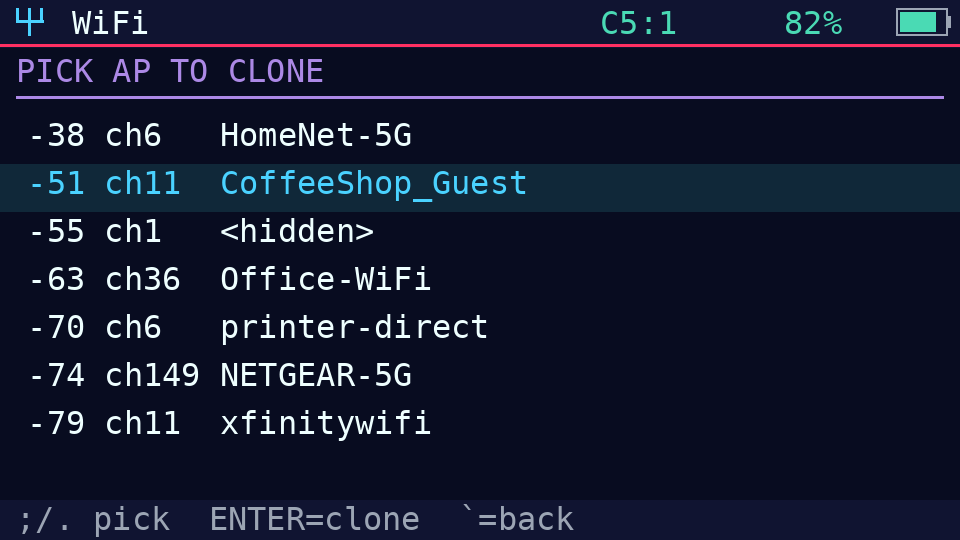
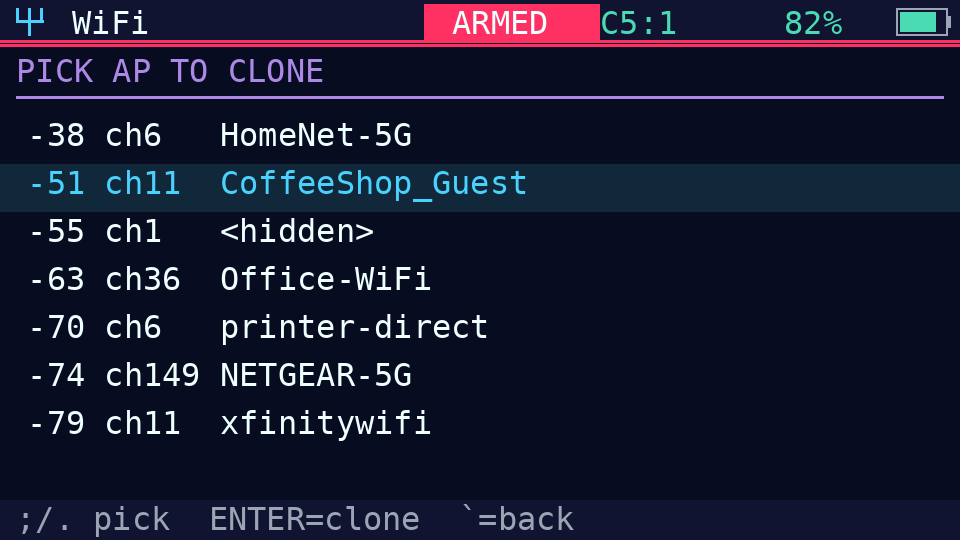
docs(c5-captures): sync rendered captures with the new ARMED badge
Follow-up to the ARMED-indicator change (PR #32): tools/render_c5_screens.py
drew the old separator-only armed cue, so the committed C5 Tier-2 captures
were stale. Update status_bar() to render the filled red "ARMED" badge
(white on red) + 2px red baseline, matching src/ui.cpp, and regenerate
c5-beacon-spam / c5-ciw / c5-ap-clone PNGs. README caption updated.

Claude-Session: https://claude.ai/code/session_01KB21nw3rYguogBez4yGuii

Changed region(s): [[0.0, 0.0, 1.0, 0.0889]]

diff --git a/tools/render_c5_screens.py b/tools/render_c5_screens.py
@@ -51,6 +51,10 @@ def status_bar(sc, radio="WiFi", c5=1, bat=82, armed=True):
     # signal glyph (src/ui.cpp)
     sc.vline(7, 2, 7, ACCENT); sc.vline(4, 2, 3, ACCENT); sc.vline(10, 2, 3, ACCENT); sc.hline(4, 5, 7, ACCENT)
     sc.text(18, 2, radio, FG)
+    # TX-arm "ARMED" badge (white on red) in the extra slot when armed (src/ui.cpp)
+    if armed:
+        sc.rect(106, 1, 44, 9, BAD)
+        sc.text(113, 2, "ARMED", FG)
     if c5 > 0: sc.text(150, 2, f"C5:{c5}", GOOD)
     # battery
     bx = W - 16
@@ -59,8 +63,11 @@ def status_bar(sc, radio="WiFi", c5=1, bat=82, armed=True):
     bcol = GOOD if bat > 50 else (WARN if bat > 20 else BAD)
     if fw > 0: sc.rect(bx+1, 3, fw, 5, bcol)
     sc.text(196, 2, f"{bat}%", bcol)
-    # TX-arm separator: red when armed
-    sc.hline(0, STATUS_H-1, W, BAD if armed else RULE)
+    # TX-arm baseline: 2px red when armed, else the theme rule (src/ui.cpp)
+    if armed:
+        sc.hline(0, STATUS_H-2, W, BAD); sc.hline(0, STATUS_H-1, W, BAD)
+    else:
+        sc.hline(0, STATUS_H-1, W, RULE)
 
 def footer(sc, hint):
     sc.rect(0, H-FOOTER_H, W, FOOTER_H, STATUS_BG)

diff --git a/README.md b/README.md
@@ -201,7 +201,7 @@ Separate board, reached over ESP-NOW, for the radios the S3 can't do: 5 GHz Wi-F
 
 #### C5 Tier 2 screens
 
-> **Rendered from code, not device captures.** These are generated by [`tools/render_c5_screens.py`](tools/render_c5_screens.py), which reproduces the exact draw calls in `src/features/c5_tier2.cpp` at the real 240×135 resolution using the Deepwater theme's RGB565 palette (`src/theme.cpp`). The red status-bar separator is the TX-arm "armed" cue. The canonical on-device UI is owned by the UI Engineer; these are documentation aids. Pixel-exact device captures will follow after the hardware pass.
+> **Rendered from code, not device captures.** These are generated by [`tools/render_c5_screens.py`](tools/render_c5_screens.py), which reproduces the exact draw calls in `src/features/c5_tier2.cpp` at the real 240×135 resolution using the Deepwater theme's RGB565 palette (`src/theme.cpp`). The red `ARMED` badge and red baseline in the status bar are the TX-arm "armed" cue. The canonical on-device UI is owned by the UI Engineer; these are documentation aids. Pixel-exact device captures will follow after the hardware pass.
 
 | Beacon spam (mode/channel picker) | CIW SSID-injection | AP clone (dual-band pick list) |
 | :---: | :---: | :---: |
